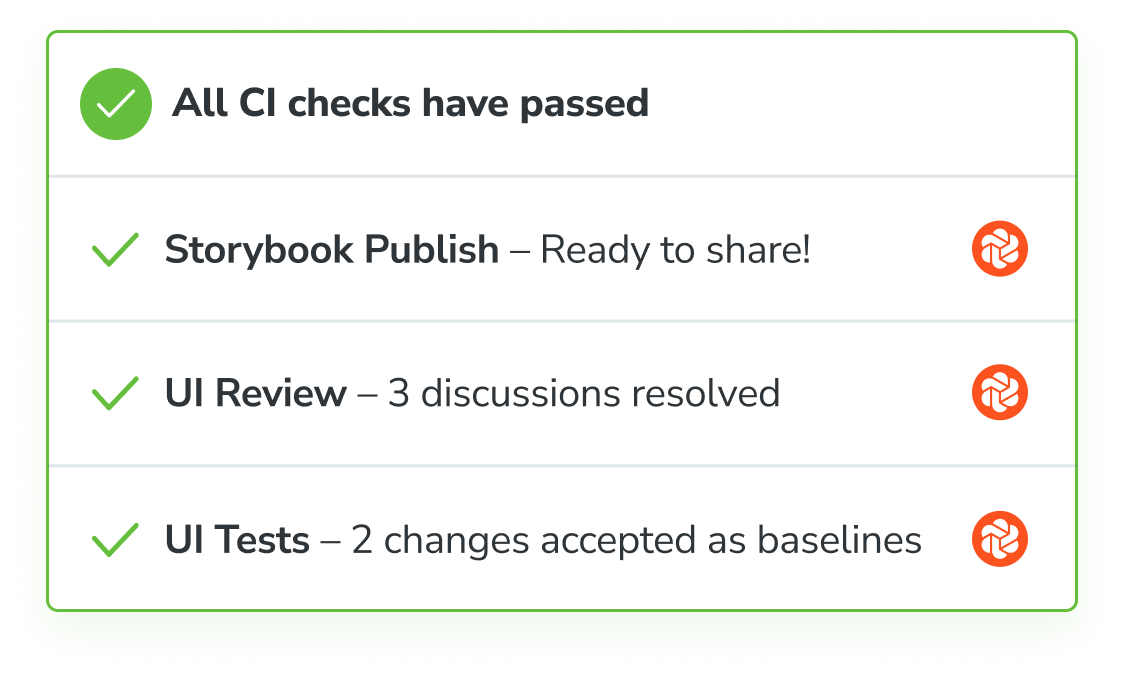
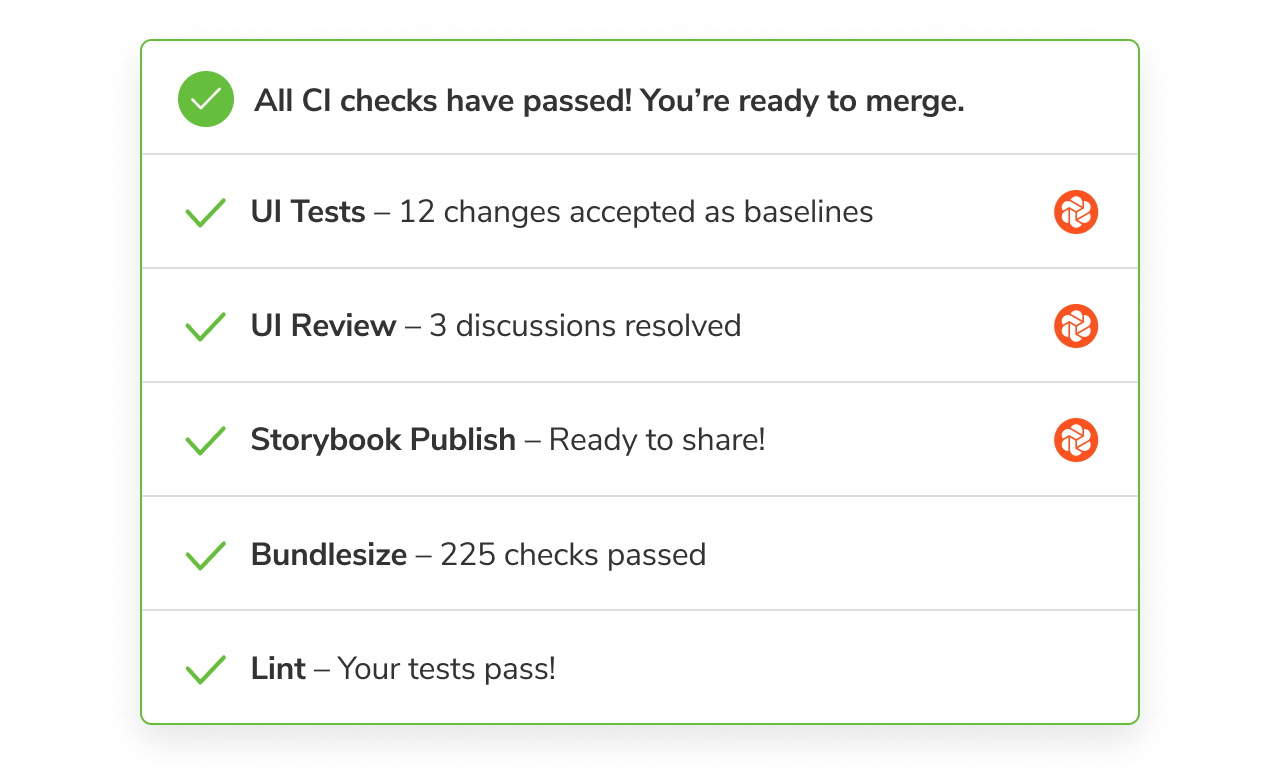
WIP on workflow docs

diff --git a/src/content/workflow/during-pull-request.md b/src/content/workflow/during-pull-request.md
@@ -5,35 +5,50 @@ description: How to review a pull request
 sidebar: { order: 6 }
 ---
 
-# During pull request review
+# During pull request
 
-Chromatic automates UI development so you can build more features, faster, and with less manual work. Here’s the recommended workflow that takes full advantage of everything we have to offer.
+During the pull request, Chromatic runs in CI whenever you push code to prevent bugs and streamline stakeholder sign off. There are two key workflows:
 
-![Chromatic workflow](../../images/chromatic-workflow.png)
+![Chromatic workflow](../../images/chromatic-during-pull-request.jpg)
 
-### 4. UI Review to get team sign off
+### 1. UI Tests catch bugs automatically
+
+It's easy for bugs to sneak into user interfaces. For example, a small CSS tweak can cause a component or one of its states to break. What's more, a bug can cascade to other components and pages causing them to break too.
+
+![visual bugs are inevitable](../../images/visual-bugs.gif)
+
+Chromatic’s [UI Tests](/docs/test) are designed to prevent visual and functional bugs. UI Tests are similar to other types of testing (unit, E2E, etc.), in that they enable developers to catch and fix regressions before opening a pull request. They run in CI automatically when you push code so you can see the visual impact of code changes while you develop.
+
+TK image of comparison
+
+UI Tests compare the snapshot of a story with the previously accepted [baseline](/docs/branching-and-baselines#whats-a-baseline) in your git history (typically on the same branch). If there are changes, you'll get a diff of the changes. If the changes are intentional, press the accept button to update the baselines. Once all changes are approved, the UI is considered “ready” for review from stakeholders.
+
+### 2. UI Review to get team sign off
 
 ![Assign reviewers to get feedback](../../images/ui-review.png)
 
-In tools like GitHub, Gitlab, and Bitbucket you assign other devs to review the code for a pull request. Chromatic complements this workflow by allowing you to assign designers, PMs, and other stakeholders to review UI changes in that pull request.
+In tools like GitHub, GitLab, and Bitbucket you assign other devs to review the code for a pull request. Chromatic complements this workflow by allowing you to assign designers, product managers, and other stakeholders to review UI changes in that pull request.
 
-Review is the opportunity to discuss changes and get final team sign off. In the past, teams had to manually click through the UI to review all possible variations. Chromatic's superpower is that it knows exactly which stories have changed. It generates a changeset for your reviewers that shows precisely what they need to review. This speeds up the sign off process.
-
-[UI Review](/docs/review) is essential because developers often run into edge cases or technical hurdles that your team didn't consider.
-
-For UI Review, Chromatic shows you a branch vs branch comparison. That is, what will change on the base branch when you merge this PR.
+UI Review is the opportunity to discuss changes and get final team sign off. In the past, teams had to manually click through the UI to review all possible variations. Chromatic's superpower is that it knows exactly which stories have changed. It generates a changeset for reviewers that shows precisely what they need to sign off on.
 
 <details>
-<summary>How do I invite collaborators to my project?</summary>
+<summary>Shouldn't the edge cases be solved earlier in the product or design spec?</summary>
 
-To add or remove collaborators, go to the collaborate tab on your project's Manage page. You can invite them by email or by sharing an invite link.
+Developers often run into edge cases or technical hurdles that're impossible for teams to predict ahead of time. UI Review acknowledges that even the best plans lack fidelity, and that UI can change between planning and shipping.
+
+</details>
+
+<details>
+<summary>How to invite reviewers to a project?</summary>
+
+Invite reviewers by going to the project's Manage page » Collaborate tab. You can invite collaborators by email or by sharing an invite link.
 
 [More on inviting collaborators »](/docs/collaborators#external-collaborators)
 
 </details>
 
 <details>
-<summary>How to assign designers and PMs to review?</summary>
+<summary>How to assign designers and product managers to review?</summary>
 
 Use the Assign Reviewers link on the PR Activity page to choose reviewers from the project’s collaborators. Reviewers will be emailed a link to the PR screen to begin their review.
 
@@ -42,7 +57,7 @@ Use the Assign Reviewers link on the PR Activity page to choose reviewers from t
 </details>
 
 <details>
-<summary>How do I track requested changes?</summary>
+<summary>How do I track change requests?</summary>
 
 Reviewers can request changes to the implementation via the comment box beneath each story. These get aggregated at the bottom of the PR screen’s activity tab. Developers can see a [list of tasks](/docs/review#ui-checklist) which must be completed before UI is ready to merge.
 
@@ -50,24 +65,18 @@ Reviewers can request changes to the implementation via the comment box beneath 
 
 </details>
 
-### 5. Merge with confidence with PR checks
+#### Publish and share Storybook for review
+
+During the build process, Chromatic builds and publishes your Storybook to its secure workspace (CDN) accessible to your entire team. It's a shared reference point for your entire team, making cross-discipline collaboration easier. This keeps everyone in sync with the latest UI implementation. No fussing with dependencies, git, or local dev environments.
+
+- [Share permalinks with collaborators](/docs/permalinks#share-permalinks-with-collaborators)
+- [Custom domain for published Storybook](/docs/permalinks#custom-domain-for-your-storybook)
+
+### Merge with confidence with PR checks
 
 Chromatic will badge PRs to notify you about publish, test, and review results. Once all checks are complete, you’re ready to merge!
 
 ![PR badges](../../images/prbadges.png)
-
-### 6. Publish and share your Storybook
-
-During the build process, Chromatic builds and publishes your Storybook to its secure workspace (CDN) accessible to your entire team. That keeps everyone in sync with the latest UI implementation. No fussing with dependencies, git, or local dev environments.
-
-- [Share permalinks with collaborators](/docs/permalinks#share-permalinks-with-collaborators)
-- [Custom domain for your Storybook](/docs/permalinks#custom-domain-for-your-storybook)
-
-The published Storybook is a shared reference point for your entire team, making cross-discipline collaboration easier.
-
-#### Document your components
-
-Storybook can automatically [generate UI documentation](https://storybook.js.org/docs/react/writing-docs/introduction) for components. These pages will contain stories rendered as live examples, as well as an interactive "args" table that showcases the component API. Customize the generated docs with additional prose. With Chromatic, you'll get shareable docs URL for your team to reference.
 
 ---
 

diff --git a/src/content/workflow/before-pull-request.md b/src/content/workflow/before-pull-request.md
@@ -7,13 +7,13 @@ sidebar: { order: 1 }
 
 # Before a pull request
 
-Chromatic helps you prepare a pull request by verifying the appearance and functionality of a UI in different browsers, viewports, themes, and more.
+Chromatic helps you prepare a pull request by verifying the appearance and functionality of a UI in different browsers, viewports, themes, and global settings.
 
 TK new diagram for before PR workflow
 
 ### Build in Storybook, Playwright, or Cypress
 
-Chromatic reuses your existing stories and end-to-end tests for visual testing.
+Chromatic reuses your existing Storybook stories and Playwright or Cypress end-to-end tests for visual testing.
 
 ![Chromatic workflow](../../images/chromatic-workflow.png)
 
@@ -21,89 +21,21 @@ In Storybook, developers build UI components in isolation using [component-drive
 
 Chromatic uses these stories as visual test cases automatically.
 
-<details>
-<summary>Playwright integration</summary>
+TK Describe building from the component up
 
-Developers test user flows end-to-end by navigating between pages with Playwright. This methodology allows you to simulate how users behave. Chromatic uses these E2E tests as visual tests cases by automatically snapshotting key moments in the test.
+— show continuum of component to page » storybook helps you build
+
+- continuum of states for each UI » viewports, themes, browsers, locales, media features, etc.
+
+<details>
+<summary>Playwright and Cypress integrations</summary>
+
+Developers test user flows end-to-end by navigating between pages with Playwright or Cypress. This methodology allows you to simulate how users behave. Chromatic uses these E2E tests as visual tests cases by automatically snapshotting key moments in the test.
 
 [TK Learn how to setup Playwright](/docs/)
-
-</details>
-
-<details>
-<summary>Cypress integration</summary>
-
-Developers test user flows end-to-end by navigating between pages with Cypress. This methodology allows you to simulate how users behave. Chromatic uses these E2E tests as visual tests cases by automatically snapshotting key moments in the test.
-
 [TK Learn how to setup Cypress](/docs/)
 
 </details>
-
-### 2. Run Chromatic in CI
-
-We recommend [configuring your CI](/docs/ci) to run a Chromatic build whenever you push code. This ensures the published Storybook on Chromatic is up to date and ensures comprehensive coverage for UI Tests and UI Review.
-
-<details>
-<summary>How often should I run Chromatic?</summary>
-
-We recommend running Chromatic on every push. This ensures that Chromatic is regularly updating baselines and can catch unintentional changes.
-
-Each snapshot is associated with a commit. That enables you to pinpoint the particular commit where a change was introduced.
-
-It also allows you to [visualize baseline history](/docs/branching-and-baselines#how-do-i-visualize-baseline-history-for-a-story). You can review the commits to see how a component changes over time.
-
-Not running Chromatic on every commit makes it harder to review diffs and increases the risk of missing changes.
-
-Let's say you run Chromatic on a commit. Then skip it for four commits and then rerun it. The Chromatic build for that fifth commit will also include changes from all the previous four commits. That makes it much harder to discern what is an acceptable change vs a UI bug.
-
-</details>
-
-<details>
-<summary>How do I budget snapshots?</summary>
-
-Our main recommendation is to use Chromatic’s [TurboSnap](/docs/turbosnap#turbosnap) feature. It uses Git and your project’s dependency graph to identify component files that changed, then intelligently builds and snapshots only the stories associated with those components.
-
-This enables you to run Chromatic regularly while reducing the snapshot count per build.
-
-</details>
-
-### 3. UI Tests help you catch bugs before opening a pull request
-
-Changes in development are inevitable, and bugs can easily slip in, especially with UIs. A small tweak to the CSS can cause a component or one of its states to break. Even worse, the bug can have a cascading effect cause other components and pages to break.
-
-You use Storybook to isolate UI components, mock their variations, and save the supported test cases as stories. Chromatic then captures a snapshot of each story in a cloud browser for testing.
-
-![visual bugs are inevitable](../../images/visual-bugs.gif)
-
-Chromatic’s [UI tests](/docs/test) are designed to catch visual and interaction bugs.
-
-<details>
-<summary>What are visual bugs?</summary>
-
-Visual bugs are the unintentional errors in your UIs appearance that make it look untrustworthy. For example: cut-off elements, incorrect colors or font styles, broken layouts, and missing error states.
-
-</details>
-
-<details>
-<summary>What are interaction bugs?</summary>
-
-Interaction bugs are unintentional errors in UI behavior that prevents it from working as intended. For example: a dialog doesn't open or a form doesn't respond to typing events.
-
-[Interactive stories combined with assertions](/docs/interactions) enable you to test how components respond to user input. Attach a [play function](https://storybook.js.org/docs/react/writing-stories/play-function) to the story to simulate user behavior (e.g., click and type) and assert against that behavior.
-
-Interaction tests in Chromatic run behind the scenes without you having to configure anything. You'll be notified of any test failures via the Chromatic UI.
-
-These are designated as critical failures that need immediate attention. You won't be able to pass the build until the test is fixed.
-
-To debug, you can launch the published Storybook to reproduce the exact state of your story when the test failed. Click the "View Storybook" button on the test page to open the failed story.
-
-![Storybook with failed interaction test](../../images/interaction-test-screen-failed-test.png)
-
-</details>
-
-UI Tests are similar to other types of testing (unit, E2E, etc.), in that they enable developers to catch and fix regressions. UI Tests compare the snapshot of a story with the previously accepted [baseline](/docs/branching-and-baselines#whats-a-baseline) in your git history (typically on the same branch). If there are changes, you'll get a diff of the changes. If the changes are intentional, press the accept button to update the baselines.
-
-Once all changes are approved, the UI is considered “ready” and you can move to the UI Review phase.
 
 ---
 
